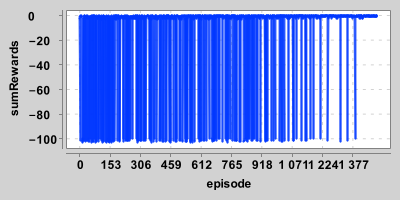
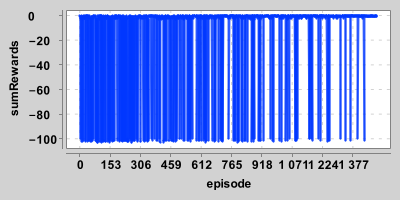
getStartState veck

Changed region(s): [[0.18, 0.06, 0.93, 0.72]]

diff --git a/src/main/java/maze_domain_design/domain/trainer/aggregates/Mediator.java b/src/main/java/maze_domain_design/domain/trainer/aggregates/Mediator.java
@@ -3,13 +3,8 @@ package maze_domain_design.domain.trainer.aggregates;
 import lombok.Getter;
 import maze_domain_design.domain.agent.Agent;
 import maze_domain_design.domain.environment.EnvironmentI;
-import maze_domain_design.domain.environment.value_objects.StateI;
-import maze_domain_design.environments.obstacle_on_road.EnvironmentRoad;
-import maze_domain_design.environments.obstacle_on_road.GridVariables;
-import maze_domain_design.environments.obstacle_on_road.StateRoad;
 import maze_domain_design.domain.trainer.entities.Experience;
 import maze_domain_design.domain.trainer.entities.Recording;
-import maze_domain_design.domain.trainer.value_objects.StartStateSupplier;
 import maze_domain_design.domain.trainer.value_objects.TrainerExternal;
 import maze_domain_design.domain.trainer.value_objects.TrainerProperties;
 import java.util.stream.IntStream;
@@ -21,7 +16,6 @@ public class Mediator<V> implements MediatorI<V> {
     TrainerProperties properties;
     @Getter
     Recorder recorder;
-    StartStateSupplier<V> startStateSupplier;
     EpisodeCreator<V> episodeCreator;
     AgentFitter fitter;
 
@@ -31,8 +25,6 @@ public class Mediator<V> implements MediatorI<V> {
         this.external = new TrainerExternal<>(environment, agent);
         this.properties = properties;
         this.recorder = new Recorder();
-        this.startStateSupplier = new StartStateSupplier<>(
-                properties, environment.getProperties());
         this.episodeCreator = new EpisodeCreator<>(this);
         this.fitter = new AgentFitter(this);
     }
@@ -49,11 +41,6 @@ public class Mediator<V> implements MediatorI<V> {
     @Override
     public Episode runEpisode() {
         return episodeCreator.runEpisode();
-    }
-
-    @Override
-    public StateI<V> getStartState() {
-        return (StateI<V>) startStateSupplier.getStartState();
     }
 
     @Override

diff --git a/src/main/java/maze_domain_design/environments/obstacle_on_road/EnvironmentRoad.java b/src/main/java/maze_domain_design/environments/obstacle_on_road/EnvironmentRoad.java
@@ -6,6 +6,8 @@ import maze_domain_design.domain.environment.EnvironmentI;
 import maze_domain_design.domain.environment.value_objects.Action;
 import maze_domain_design.domain.environment.value_objects.StateI;
 import maze_domain_design.domain.environment.value_objects.StepReturn;
+import org.apache.commons.lang3.RandomUtils;
+
 import java.util.function.BiFunction;
 
 @AllArgsConstructor
@@ -18,6 +20,7 @@ public class EnvironmentRoad implements EnvironmentI<GridVariables> {
         return new EnvironmentRoad(PropertiesRoad.roadMaze());
     }
 
+    @Override
     public StepReturn<GridVariables> step(StateI<GridVariables> s, Action a) {
         var sNext = getNextState(s, a);
         var isTerminal = sNext.isTerminal();
@@ -30,6 +33,16 @@ public class EnvironmentRoad implements EnvironmentI<GridVariables> {
                 .build();
     }
 
+    @Override
+    public StateRoad getStartState() {
+        var xMinMax=properties.startXMinMax();
+        var yMinMax=properties.startYMinMax();
+        return  StateRoad.of(
+                RandomUtils.nextInt(xMinMax.getFirst(),xMinMax.getSecond()+1),
+                RandomUtils.nextInt(yMinMax.getFirst(),yMinMax.getSecond()+1),
+                properties);
+    }
+
     static BiFunction<Boolean, Double, Double> valueIfTrue = (c, v) -> c ? v : 0d;
 
     double getReward(boolean isTerminal, boolean isFail, boolean isMove) {
@@ -38,7 +51,7 @@ public class EnvironmentRoad implements EnvironmentI<GridVariables> {
                 valueIfTrue.apply(isMove, properties.rewardMove());
     }
 
-    StateI<GridVariables> getNextState(StateI<GridVariables> s, Action a) {
+    StateRoad getNextState(StateI<GridVariables> s, Action a) {
         var xNext = s.getVariables().x() + 1;
         var yNext = s.getVariables().y() + a.deltaY;
         return StateRoad.of(xNext, yNext,properties).clip();

diff --git a/src/main/java/maze_domain_design/domain/trainer/aggregates/EpisodeCreator.java b/src/main/java/maze_domain_design/domain/trainer/aggregates/EpisodeCreator.java
@@ -21,16 +21,17 @@ public class EpisodeCreator<V> {
         var env = mediator.getExternal().environment();
 
         var episode = new Episode();
-        var s = mediator.getStartState();
-        var pRandomAction=mediator.pRandomAction();
-        List<Double> tdErrors= new ArrayList<>();
+        //        var s = mediator.getStartState();
+        var s = env.getStartState();
+        var pRandomAction = mediator.pRandomAction();
+        List<Double> tdErrors = new ArrayList<>();
         while (!s.isTerminal()) {
             Action a = agent.chooseAction(s, pRandomAction);
             var sr = env.step(s, a);
-            int t=episode.nextId();
+            int t = episode.nextId();
             var e = Experience.ofIdStateActionStepReturn(t, s, a, sr);
             episode.addExp(e);
-            double err=mediator.fitAgentMemoryFromExperience(e);
+            double err = mediator.fitAgentMemoryFromExperience(e);
             tdErrors.add(Math.abs(err));
             s = sr.sNext();
         }
@@ -40,7 +41,7 @@ public class EpisodeCreator<V> {
     }
 
     private static void setEpisodeInfo(Episode episode, double pRandomAction, double tdErrorAvg) {
-        episode.infoForRecording= EpisodeInfoForRecording.builder()
+        episode.infoForRecording = EpisodeInfoForRecording.builder()
                 .pRandomAction(pRandomAction).tdErrorAvg(tdErrorAvg)
                 .build();
     }

diff --git a/src/test/java/maze_domain_design/TestAgent.java b/src/test/java/maze_domain_design/TestAgent.java
@@ -5,6 +5,7 @@ import maze_domain_design.domain.agent.value_objects.AgentProperties;
 import maze_domain_design.domain.agent.value_objects.StateAction;
 import maze_domain_design.environments.obstacle_on_road.EnvironmentRoad;
 import maze_domain_design.domain.environment.value_objects.Action;
+import maze_domain_design.environments.obstacle_on_road.GridVariables;
 import maze_domain_design.environments.obstacle_on_road.PropertiesRoad;
 import maze_domain_design.environments.obstacle_on_road.StateRoad;
 import org.apache.commons.math3.util.Pair;
@@ -16,7 +17,7 @@ import java.util.Arrays;
 public class TestAgent {
     public static final int PROB_RANDOM_IS_ZERO = 0;
     public static final double PROB_RANDOM_IS_ONE = 1d;
-    Agent agent;
+    Agent<GridVariables> agent;
     AgentProperties properties;
     PropertiesRoad envProps;
 
@@ -24,7 +25,7 @@ public class TestAgent {
     void init() {
         properties = AgentProperties.roadMaze();
         envProps= PropertiesRoad.roadMaze();
-        agent=new Agent(properties, EnvironmentRoad.roadMaze());
+        agent=new Agent<>(properties, EnvironmentRoad.roadMaze());
     }
 
     @Test

diff --git a/src/main/java/maze_domain_design/environments/obstacle_on_road/PropertiesRoad.java b/src/main/java/maze_domain_design/environments/obstacle_on_road/PropertiesRoad.java
@@ -13,7 +13,9 @@ public record PropertiesRoad(  //flytta till env
                                Double rewardMove,
                                Integer xTerminal,
                                Integer yFailTerminal,
-                               Integer yNonFailTerminal
+                               Integer yNonFailTerminal,
+                               Pair<Integer, Integer> startXMinMax,
+                               Pair<Integer, Integer> startYMinMax
 ) {
 
     public static PropertiesRoad roadMaze() {
@@ -21,6 +23,8 @@ public record PropertiesRoad(  //flytta till env
                 .minMaxX(Pair.create(0,3)).minMaxY(Pair.create(0,1))
                 .rewardFailTerminal(-100d).rewardNonFailTerminal(0d).rewardMove(-1d)
                 .xTerminal(3).yFailTerminal(1).yNonFailTerminal(0)
+                .startXMinMax(Pair.create(0, 0))
+                .startYMinMax(Pair.create(0, 1))
                 .build();
     }
 

diff --git a/src/main/java/maze_domain_design/domain/trainer/aggregates/MediatorI.java b/src/main/java/maze_domain_design/domain/trainer/aggregates/MediatorI.java
@@ -1,19 +1,17 @@
 package maze_domain_design.domain.trainer.aggregates;
 
-import maze_domain_design.domain.environment.value_objects.StateI;
-import maze_domain_design.environments.obstacle_on_road.StateRoad;
 import maze_domain_design.domain.trainer.entities.Experience;
 import maze_domain_design.domain.trainer.value_objects.TrainerExternal;
 import maze_domain_design.domain.trainer.value_objects.TrainerProperties;
 
 public interface MediatorI<V> {
 
-    TrainerExternal getExternal();
+    TrainerExternal<V> getExternal();
     TrainerProperties getProperties();
     Recorder getRecorder();
     void train();
     Episode runEpisode();
-    StateI<V> getStartState();
+    //StateI<V> getStartState();
     double pRandomAction();
    // void fitAgentMemoryFromEpisode(Episode<V> episode);
     double fitAgentMemoryFromExperience(Experience<V> experience);

diff --git a/src/main/java/maze_domain_design/domain/trainer/value_objects/TrainerProperties.java b/src/main/java/maze_domain_design/domain/trainer/value_objects/TrainerProperties.java
@@ -6,16 +6,18 @@ import org.apache.commons.math3.util.Pair;
 
 @Builder
 public record TrainerProperties(
-        @With int nEpisodes,
-        Pair<Integer, Integer> startXMinMax,
-        Pair<Integer, Integer> startYMinMax
+        @With int nEpisodes
+/*        Pair<Integer, Integer> startXMinMax,
+        Pair<Integer, Integer> startYMinMax*/
 ) {
 
     public static TrainerProperties roadMaze() {
         return TrainerProperties.builder()
                 .nEpisodes(1500)
+/*
                 .startXMinMax(Pair.create(0, 0))
                 .startYMinMax(Pair.create(0, 1))
+*/
                 .build();
     }
 

diff --git a/src/main/java/maze_domain_design/domain/environment/EnvironmentI.java b/src/main/java/maze_domain_design/domain/environment/EnvironmentI.java
@@ -3,10 +3,12 @@ package maze_domain_design.domain.environment;
 import maze_domain_design.domain.environment.value_objects.Action;
 import maze_domain_design.domain.environment.value_objects.StateI;
 import maze_domain_design.domain.environment.value_objects.StepReturn;
+import maze_domain_design.environments.obstacle_on_road.GridVariables;
 import maze_domain_design.environments.obstacle_on_road.PropertiesRoad;
 import weka.core.EnvironmentProperties;
 
 public interface EnvironmentI<V> {
     StepReturn<V> step(StateI<V> s, Action a);
+    StateI<V> getStartState();
     PropertiesRoad getProperties();
 }
